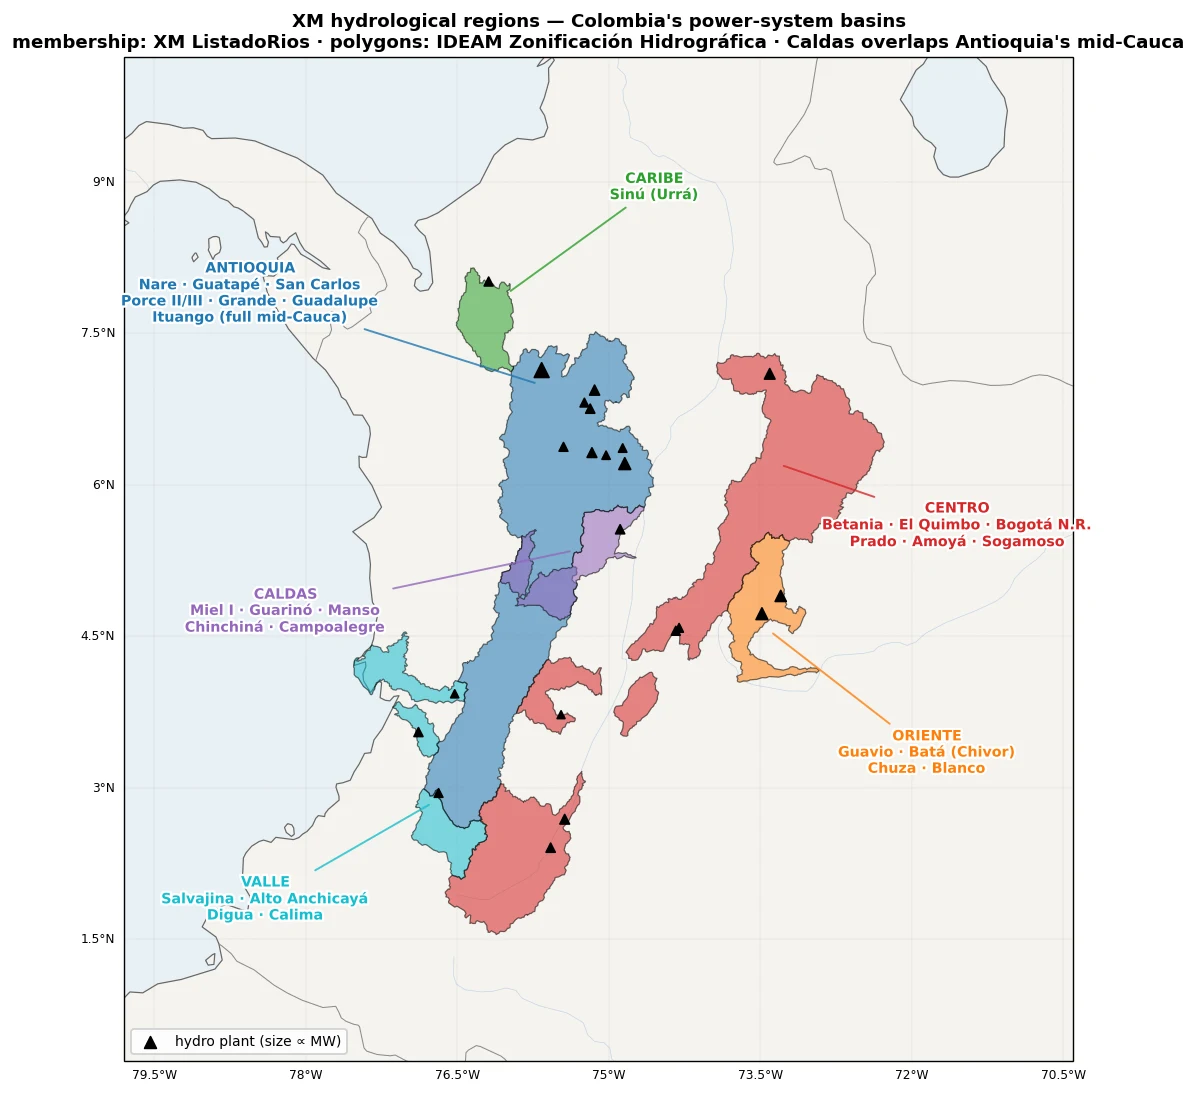
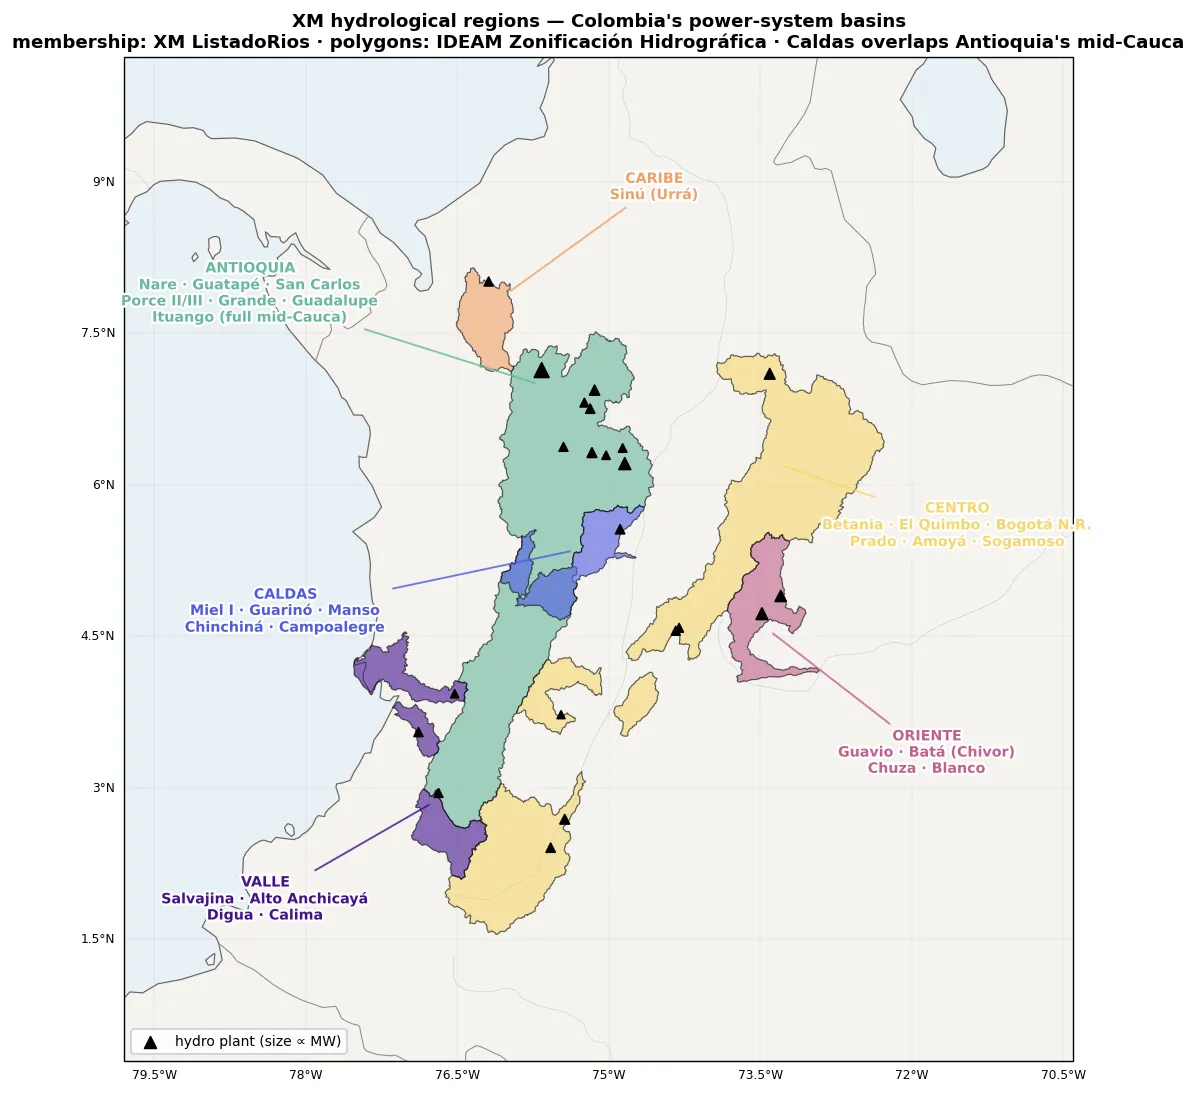
Colombia hydro: replicate XM's official Mapa Hidrología SIN department view + palette
Department clusters decoded from sinergox.xm.com.co (Caribe = 7 coastal
depts; Oriente = Santander/N.Santander/Boyacá/Casanare; Centro =
Cundinamarca/Bogotá/Tolima/Huila/Meta; Antioquia, Caldas, Valle del
Cauca eponymous). All region colors switched to XM's dashboard palette
across maps, chips and charts; map rendering now lives in
render_hydro_maps.py instead of ad-hoc inline scripts.

diff --git a/colombia_hydro/index.html b/colombia_hydro/index.html
@@ -74,8 +74,8 @@ daily. Rain here today is turbine water in the coming weeks.</p>
     alt="Department-scale display view of the XM regions with true basins outlined">
     <p class="note" style="margin:8px 4px 2px">Two views of the same regions: the
     <b>contributing basins</b> (left — used for all rainfall averaging on this page) and the
-    <b>department-scale shading</b> XM-style dashboards display (right), with the true basins
-    outlined in black. Rain outside the black outlines never reaches a turbine.</p></div>
+    <b>official department groups</b> from XM's Mapa Hidrología SIN (right), with the true
+    basins outlined in black. Rain outside the black outlines never reaches a turbine.</p></div>
 </div>
 
 <h2>Basin rainfall, daily</h2>
@@ -90,17 +90,17 @@ department-scale areas, but only these catchments actually convert rainfall into
 <div class="panel">
 <table>
 <tr><th>Region</th><th>Rivers / reservoir systems</th><th>Approx. area</th></tr>
-<tr><td><span class="dot" style="background:#1f77b4"></span><b>Antioquia</b></td>
+<tr><td><span class="dot" style="background:#68B79F"></span><b>Antioquia</b></td>
     <td>Nare · Guatapé · San Carlos · Porce II/III · Grande · Guadalupe · Tenche · Ituango (full Salvajina→dam mid-Cauca)</td><td>49,200 km²</td></tr>
-<tr><td><span class="dot" style="background:#9467bd"></span><b>Caldas</b></td>
+<tr><td><span class="dot" style="background:#4F5BE3"></span><b>Caldas</b></td>
     <td>Miel I · Guarinó &amp; Manso desv. · Chinchiná · Campoalegre · San Eugenio</td><td>6,700 km²</td></tr>
-<tr><td><span class="dot" style="background:#2ca02c"></span><b>Caribe</b></td>
+<tr><td><span class="dot" style="background:#F0A169"></span><b>Caribe</b></td>
     <td>Sinú (Urrá)</td><td>4,700 km²</td></tr>
-<tr><td><span class="dot" style="background:#d62728"></span><b>Centro</b></td>
+<tr><td><span class="dot" style="background:#F5D76E"></span><b>Centro</b></td>
     <td>Betania · El Quimbo · Bogotá N.R. · Prado · Amoyá · Cucuana · Sogamoso</td><td>48,000 km²</td></tr>
-<tr><td><span class="dot" style="background:#ff7f0e"></span><b>Oriente</b></td>
+<tr><td><span class="dot" style="background:#C0608D"></span><b>Oriente</b></td>
     <td>Guavio · Batá (Chivor) · Chuza · Blanco</td><td>6,700 km²</td></tr>
-<tr><td><span class="dot" style="background:#17becf"></span><b>Valle</b></td>
+<tr><td><span class="dot" style="background:#43128F"></span><b>Valle</b></td>
     <td>Salvajina (alto Cauca) · Alto Anchicayá · Digua · Calima</td><td>8,400 km²</td></tr>
 </table>
 </div>

diff --git a/scripts/sst/render_hydro_maps.py b/scripts/sst/render_hydro_maps.py
@@ -1,0 +1,144 @@
+#!/usr/bin/env python3
+"""Render the two colombia_hydro maps: contributing basins + XM display view.
+
+Colors follow XM's Sinergox dashboard palette; the department clusters in the
+display view replicate XM's official "Mapa Hidrología SIN" exactly (decoded
+2026-07-23 from sinergox.xm.com.co/hdrlg/Paginas/Informes/MapaHidrologiaSIN.aspx).
+Note XM's display is deliberately coarse: Cauca dept is unshaded although
+Salvajina's catchment sits in it, Risaralda unshaded despite Caldas-region
+plants — the black basin outlines carry the truth.
+
+    python scripts/sst/render_hydro_maps.py
+"""
+from __future__ import annotations
+
+import json
+from pathlib import Path
+
+import matplotlib
+matplotlib.use("Agg")
+import matplotlib.pyplot as plt
+import matplotlib.patheffects as mpe
+import cartopy.crs as ccrs
+import cartopy.feature as cfeature
+import cartopy.io.shapereader as shpreader
+import geopandas as gpd
+from shapely.geometry import shape
+from PIL import Image
+
+HERE = Path(__file__).resolve().parent
+REPO = HERE.parent.parent
+OUTDIR = REPO / "colombia_hydro"
+
+# XM Sinergox region palette (sampled from the official dashboard cards)
+COLORS = {"ANTIOQUIA": "#68B79F", "CALDAS": "#4F5BE3", "CARIBE": "#F0A169",
+          "CENTRO": "#F5D76E", "ORIENTE": "#C0608D", "VALLE": "#43128F"}
+
+# XM's official department aggregates (Mapa Hidrología SIN)
+XM_DEPTS = {
+    "ANTIOQUIA": ["Antioquia"],
+    "CALDAS": ["Caldas"],
+    "CARIBE": ["La Guajira", "Cesar", "Magdalena", "Atlántico", "Bolívar",
+               "Sucre", "Córdoba"],
+    "CENTRO": ["Cundinamarca", "Bogota", "Tolima", "Huila", "Meta"],
+    "ORIENTE": ["Santander", "Norte de Santander", "Boyacá", "Casanare"],
+    "VALLE": ["Valle del Cauca"],
+}
+RIVERS = {
+ "ANTIOQUIA": "Nare · Guatapé · San Carlos\nPorce II/III · Grande · Guadalupe\nItuango (full mid-Cauca)",
+ "CALDAS": "Miel I · Guarinó · Manso\nChinchiná · Campoalegre",
+ "CARIBE": "Sinú (Urrá)",
+ "CENTRO": "Betania · El Quimbo · Bogotá N.R.\nPrado · Amoyá · Sogamoso",
+ "ORIENTE": "Guavio · Batá (Chivor)\nChuza · Blanco",
+ "VALLE": "Salvajina · Alto Anchicayá\nDigua · Calima"}
+LABEL = {"ANTIOQUIA": (-78.55, 7.9), "CALDAS": (-78.2, 4.75), "CARIBE": (-74.55, 8.95),
+         "CENTRO": (-71.55, 5.6), "ORIENTE": (-71.85, 3.35), "VALLE": (-78.4, 1.9)}
+ARROW = {"ANTIOQUIA": (-75.7, 7.0), "CALDAS": (-75.35, 5.35), "CARIBE": (-76.0, 7.9),
+         "CENTRO": (-73.3, 6.2), "ORIENTE": (-73.4, 4.55), "VALLE": (-76.75, 2.85)}
+
+
+def basins_map(regions):
+    fig = plt.figure(figsize=(9.8, 11.5))
+    ax = plt.axes(projection=ccrs.PlateCarree())
+    ax.set_extent([-79.8, -70.4, 0.3, 10.3])
+    ax.add_feature(cfeature.LAND.with_scale("50m"), facecolor="#f5f3ee")
+    ax.add_feature(cfeature.OCEAN.with_scale("50m"), facecolor="#e8f0f5")
+    ax.coastlines("50m", lw=0.7, color="0.4")
+    ax.add_feature(cfeature.BORDERS.with_scale("50m"), lw=0.6, color="0.55")
+    ax.add_feature(cfeature.RIVERS.with_scale("50m"), lw=0.4, alpha=0.5)
+    for name in ["ANTIOQUIA", "CENTRO", "ORIENTE", "VALLE", "CARIBE", "CALDAS"]:
+        rr = regions[regions["name"] == name].iloc[0]
+        ax.add_geometries([rr.geometry], ccrs.PlateCarree(), facecolor=COLORS[name],
+                          alpha=0.6, edgecolor="k", linewidth=0.7, zorder=3)
+    plants = json.load(open(HERE / "colombia_hydro_plants.json"))["plants"]
+    ax.scatter([p["lon"] for p in plants], [p["lat"] for p in plants],
+               s=[18 + p["mw"] / 45 for p in plants], c="k", marker="^", zorder=6,
+               label="hydro plant (size ∝ MW)")
+    for name, (lx, ly) in LABEL.items():
+        axx, ayy = ARROW[name]
+        ax.annotate(f"{name}\n{RIVERS[name]}", xy=(axx, ayy), xytext=(lx, ly),
+                    fontsize=8.2, fontweight="bold", ha="center", va="center",
+                    color=COLORS[name], zorder=7,
+                    path_effects=[mpe.withStroke(linewidth=2.6, foreground="white")],
+                    arrowprops=dict(arrowstyle="-", color=COLORS[name], lw=1.1, alpha=0.8))
+    gl = ax.gridlines(draw_labels=True, lw=0.2, ls=":", color="0.6")
+    gl.top_labels = gl.right_labels = False
+    gl.xlabel_style = gl.ylabel_style = {"size": 7}
+    ax.set_title("XM hydrological regions — Colombia's power-system basins\n"
+                 "membership: XM ListadoRios · polygons: IDEAM Zonificación Hidrográfica · "
+                 "Caldas overlaps Antioquia's mid-Cauca",
+                 fontsize=10.5, fontweight="bold")
+    ax.legend(loc="lower left", fontsize=8, framealpha=0.9)
+    fig.savefig(OUTDIR / "xm_regions_map.webp", dpi=125, bbox_inches="tight",
+                facecolor="white")
+    plt.close(fig)
+
+
+def departments_map(regions):
+    rd = shpreader.Reader(shpreader.natural_earth(resolution="10m",
+         category="cultural", name="admin_1_states_provinces"))
+    depts = [(r.attributes["name"], shape(r.geometry)) for r in rd.records()
+             if r.attributes["admin"] == "Colombia"]
+    d2r = {d: reg for reg, ds in XM_DEPTS.items() for d in ds}
+    fig = plt.figure(figsize=(8.6, 10.5))
+    ax = plt.axes(projection=ccrs.PlateCarree())
+    ax.set_extent([-79.6, -66.6, -4.5, 12.8])
+    ax.add_feature(cfeature.OCEAN.with_scale("50m"), facecolor="#e8f0f5")
+    ax.add_feature(cfeature.LAND.with_scale("50m"), facecolor="#f5f3ee")
+    matched = set()
+    for dname, dgeom in depts:
+        reg = d2r.get(dname)
+        if reg:
+            matched.add(dname)
+        ax.add_geometries([dgeom], ccrs.PlateCarree(),
+                          facecolor=COLORS[reg] if reg else "#eceae4",
+                          alpha=0.85 if reg else 1.0,
+                          edgecolor="white", linewidth=0.7, zorder=3)
+    missing = set(d2r) - matched
+    if missing:
+        print(f"  WARNING: departments not found in Natural Earth: {missing}")
+    for _, rr in regions.iterrows():
+        ax.add_geometries([rr.geometry], ccrs.PlateCarree(), facecolor="none",
+                          edgecolor="k", linewidth=0.9, zorder=5)
+    ax.coastlines("50m", lw=0.6, color="0.4")
+    ax.add_feature(cfeature.BORDERS.with_scale("50m"), lw=0.6, color="0.55")
+    handles = [plt.Rectangle((0, 0), 1, 1, fc=c, alpha=0.85) for c in COLORS.values()]
+    ax.legend(handles, [k.title() for k in COLORS], loc="lower left", fontsize=8.5,
+              title="Region (XM department groups)", title_fontsize=8.5, framealpha=0.95)
+    ax.set_title("XM hydro regions — official department-scale display\n"
+                 "replicates XM's Mapa Hidrología SIN · black outlines = actual contributing basins",
+                 fontsize=10.5, fontweight="bold")
+    fig.savefig(OUTDIR / "xm_regions_departments.webp", dpi=125,
+                bbox_inches="tight", facecolor="white")
+    plt.close(fig)
+
+
+def main():
+    regions = gpd.read_file(HERE / "colombia_hydro_regions.geojson")
+    basins_map(regions)
+    departments_map(regions)
+    print("wrote xm_regions_map.webp + xm_regions_departments.webp")
+
+
+if __name__ == "__main__":
+    main()

diff --git a/scripts/sst/hydro_region_rain.py b/scripts/sst/hydro_region_rain.py
@@ -38,8 +38,8 @@ OUT_PNG = REPO / "assets" / "sst" / "colombia_region_rain.webp"
 DAYS = 120                    # default; --days N extends the JSON series (chart
 PLOT_DAYS = 120               # always shows the trailing PLOT_DAYS)
 ORDER = ["ANTIOQUIA", "CALDAS", "CARIBE", "CENTRO", "ORIENTE", "VALLE"]
-COLORS = {"ANTIOQUIA": "#1f77b4", "CALDAS": "#9467bd", "CARIBE": "#2ca02c",
-          "CENTRO": "#d62728", "ORIENTE": "#ff7f0e", "VALLE": "#17becf"}
+COLORS = {"ANTIOQUIA": "#68B79F", "CALDAS": "#4F5BE3", "CARIBE": "#F0A169",
+          "CENTRO": "#F5D76E", "ORIENTE": "#C0608D", "VALLE": "#43128F"}
 
 
 def _axes():

diff --git a/scripts/sst/validate_region_rain.py b/scripts/sst/validate_region_rain.py
@@ -35,8 +35,8 @@ RIVERS_JSON = Path.home() / "colombia_hydro" / "raw" / "xm_listado_rios.json"
 OUT = Path.home() / "colombia_hydro" / "out"
 API = "https://servapibi.xm.com.co/daily"
 ORDER = ["ANTIOQUIA", "CALDAS", "CARIBE", "CENTRO", "ORIENTE", "VALLE"]
-COLORS = {"ANTIOQUIA": "#1f77b4", "CALDAS": "#9467bd", "CARIBE": "#2ca02c",
-          "CENTRO": "#d62728", "ORIENTE": "#ff7f0e", "VALLE": "#17becf"}
+COLORS = {"ANTIOQUIA": "#68B79F", "CALDAS": "#4F5BE3", "CARIBE": "#F0A169",
+          "CENTRO": "#F5D76E", "ORIENTE": "#C0608D", "VALLE": "#43128F"}
 
 
 def river_region_map() -> dict[str, str]:
